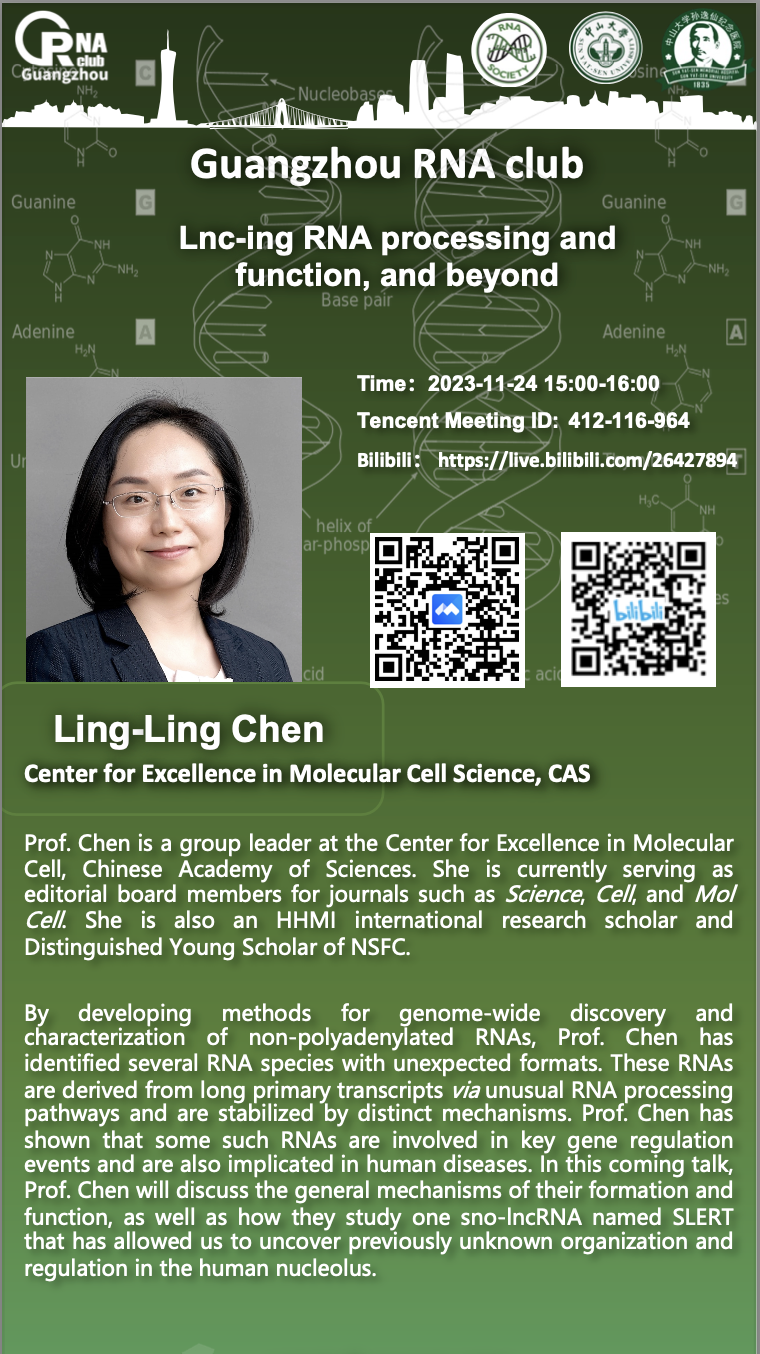
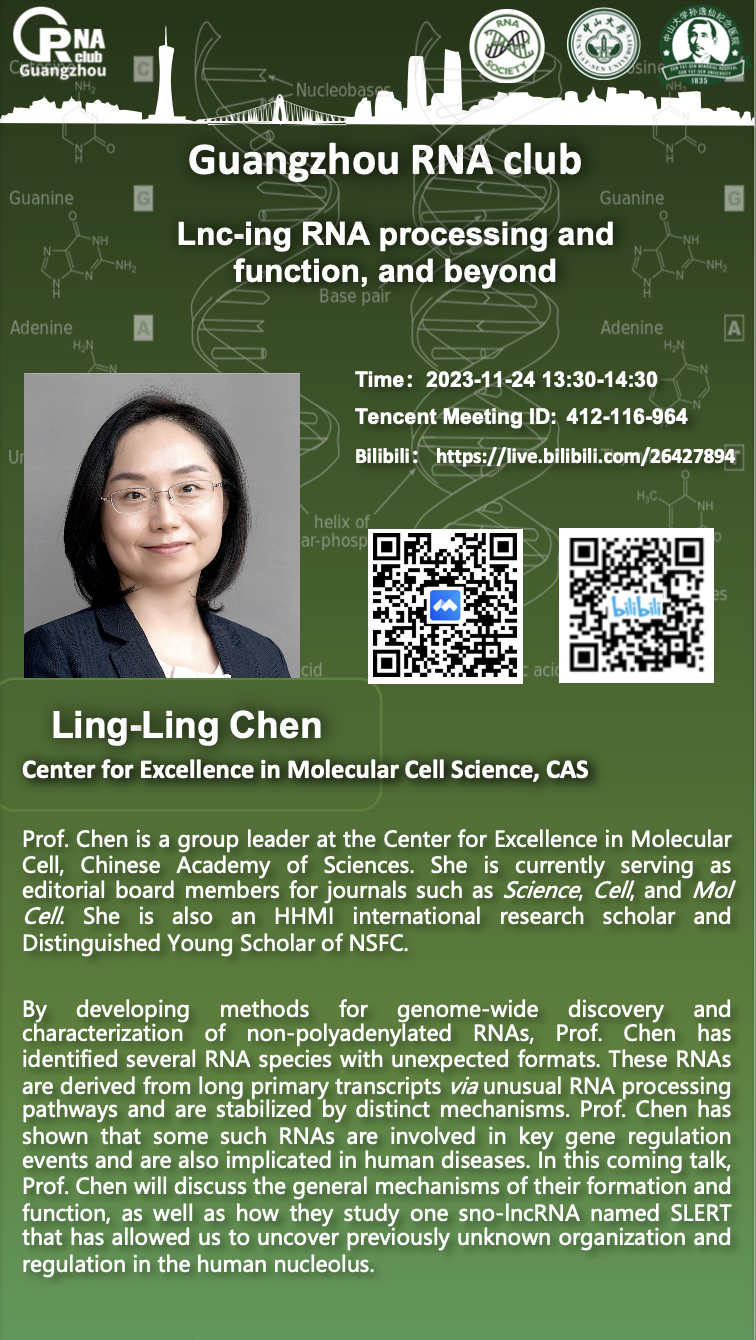
1121v

diff --git a/_pages/home.md b/_pages/home.md
@@ -98,7 +98,7 @@ permalink: /
             [<a href="http://sourcedb.sibs.cas.cn/yw/rck/201104/t20110429_3124168.html">&hellip;</a>]</p>
             <footer ><a href="#">Read More..</a></footer><br>
           </div>
-          <time datetime="2023-11-24T15:00+16:00"><strong>24</strong> <em>Nov</em><em>2023</em></time>
+          <time datetime="2023-11-24T13:30+14:30"><strong>24</strong> <em>Nov</em><em>2023</em></time>
         </article>
       </li>
    <!--<li class="one_half">
